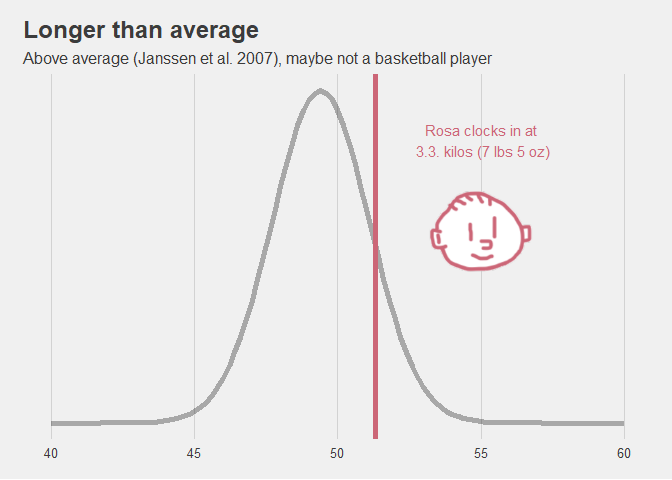
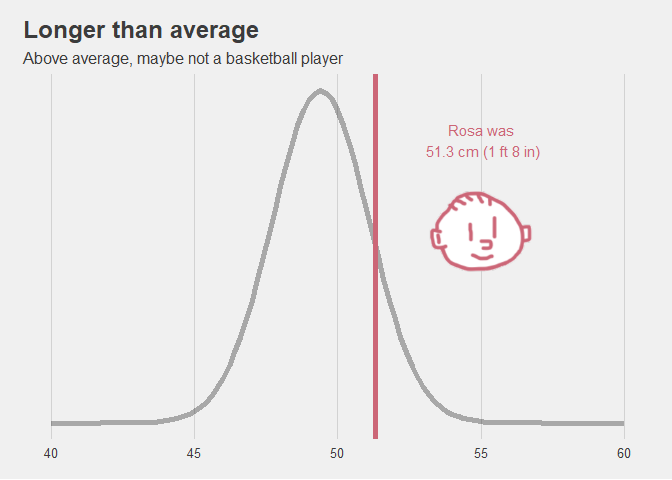
Add files via upload

Changed region(s): [[0.1875, 0.0938, 0.75, 0.1562], [0.625, 0.25, 0.8125, 0.3438]]

diff --git a/README.md b/README.md
@@ -1,6 +1,5 @@
 Announcing Rosa
 ================
-Richard Bamattre
 
 A quick announcement that Rosa was born on August 7, 2020 at 9:39 AM.
 
@@ -11,20 +10,19 @@ Now for the numbers and context.
 
 ## Her stats
 
-First of all, her basic statistics. Everyone asks this first about
-babies - how heavy and how long? It’s helpful to put these numbers in
-context by looking at how Rosa compares with other Caucasian babies.
+First of all, her basic statistics. These are the first questions almost
+everyone has about babies - how heavy and how long? It’s helpful to put
+these numbers in context by looking at how Rosa compares with other
+Caucasian babies.
 
-I pulled some data from [this
+At **3.3 kilos (7 lbs 5 oz)** Rosa sits comfortably around the average.
+If all babies were exactly the same size, we wouldn’t have a
+distribution here (the “bell curve” below). We probably wouldn’t have
+that many types of sports either if humans had the same body type.
+
+I used data from [this
 article](https://www.ncbi.nlm.nih.gov/pmc/articles/PMC2802014/) by
-Janssen et al. in 2017, since it looks at the variation in baby weight
-across ethnicities. It also gave me the numbers I needed to create a
-picture of the average weight and height.
-
-At 3.3 kilos (7 lbs 5 oz) Rosa sits comfortably around the average. If
-all babies were exactly the same size, we wouldn’t have a distribution
-here (the “bell curve” below). We probably wouldn’t have that many types
-of sports either if humans had the same body type.
+Janssen et al. (2017).
 
 ![](announcing_rosa_files/figure-gfm/weight-1.png)<!-- -->
 
@@ -34,9 +32,10 @@ Length wise, though, Rosa is somewhat above the average.
 
 ## What’s in a name?
 
-Rosa was named after her great grandmother. Her name is pronounced
-differently in Portuguese than how it would sound in English, mainly the
-“R” sound. It’s tricky. See the pronunciation of Rosa
+Rosa was named after her great grandmother. Her name follows the
+Portuguese pronounciation, which differs mainly in the “R” - it’s
+different than in English or the rolling R in Spanish. It’s tricky. See
+the pronunciation of Rosa
 [here](https://www.infopedia.pt/dicionarios/lingua-portuguesa/rosa) and
 a breakdown of the “R” sound [here](https://youtu.be/3jdovKE2f4I?t=366).
 
@@ -45,13 +44,15 @@ a breakdown of the “R” sound [here](https://youtu.be/3jdovKE2f4I?t=366).
 In the United States in 2017, around 400 Rosas were born, which is 0.02%
 of all children that year.
 
-The big question is: What is the possibility that Rosa will be in a
-class with someone with the same name? And have to go by Rosa S. and
+The big question is: **What is the possibility that Rosa will be in a
+class with someone with the same name?** And have to go by Rosa S. and
 always get confused with another kid?
 
 It turns out the chance Rosa will be in a class with another Rosa is
-about 1 in 200. Which is pretty unlikely. (Assuming classes are 20 kids
-and the popularity of names in 2020 is similar to 2017).
+about **1 in 200**. Which is pretty unlikely.
+
+Here I’m assuming classes are 20 kids and the popularity of names in
+2020 is similar to 2017.
 
 ![](announcing_rosa_files/figure-gfm/common%20name-1.png)<!-- -->
 
@@ -62,9 +63,8 @@ Unfortunately for girls named Emma, the most popular name in 2017 (and
 
 ## How popular was the name Rosa over time?
 
-Rosa is a pretty classic name, dating back to 1880, when Social Security
-records were first available to track baby names over time, and before
-then.
+Rosa is a pretty classic name, going at least back to 1880, when the
+Social Security Administration started tracking baby names.
 
 It peaked in popularity in two decades: the 1920s and 1950s. Perhaps the
 influence of Rosa Luxemburg and Rosa Parks?
@@ -73,9 +73,11 @@ influence of Rosa Luxemburg and Rosa Parks?
 
 ## What kind of names are similar?
 
-Given the popularity of Rosa over time, are there names with the similar
-trend? It seems Miriam is a close contender, along with Priscilla. Jenny
-(as opposed to Jennifer) had a similar trend, but peaked in the 1970s.
+**Given the popularity of Rosa over time, are there names with a similar
+trend?** It seems Miriam is a close contender, along with Priscilla.
+Jenny (as opposed to Jennifer) had a similar trend, but peaked in the
+1970s. Cassidy is an example of a name that is relatively new, but like
+the other names, is less popular since the 2000s.
 
 Thanks to [this analysis](https://rpubs.com/jalapic/babynames) for the
 inspiration and the code.
@@ -85,15 +87,19 @@ inspiration and the code.
 ## How the parents are doing
 
 Inadvertently I had my smart watch on during the birth, which captured
-my heart rate over time.
+my heart rate over time. It’s no surprise it went up after we saw the
+baby for the first time.
 
 ![](announcing_rosa_files/figure-gfm/hr-1.png)<!-- -->
 
-The smartwatch also tracks sleep, which gives a pretty accurate
-portrayal of pre and post-partum sleep habits. However, the watch can
-only record sleep that is longer than 3 hours per stint.
+My watch also tracks sleep, which gives a pretty accurate portrayal of
+pre and post-partum sleep habits. However, the watch can only record
+sleep that is longer than 3 hours per stint - the 9th and 10th were
+pretty tough.
 
 ![](announcing_rosa_files/figure-gfm/sleep-1.png)<!-- -->
+
+-----
 
 Welcome to the world, Rosa\! There will be lots of adventures, numbers,
 and trends out there for you to explore.
